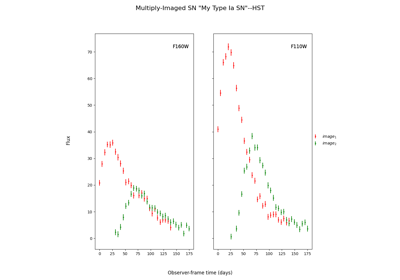
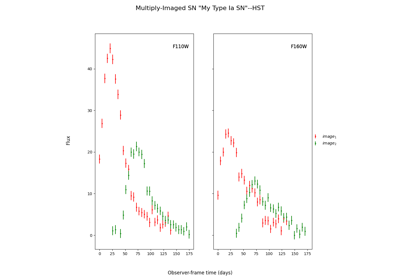
docs

diff --git a/docs/source/examples/plot_c_fitting.rst b/docs/source/examples/plot_c_fitting.rst
@@ -77,13 +77,13 @@ You can batch process (with sbatch or multiprocessing) using any or all of these
     *
 
       .. image:: /examples/images/sphx_glr_plot_c_fitting_002.png
-          :alt: t0 = ${40.94}_{-0.01}^{+0.01}$, x0 = ${0.00}_{-0.00}^{+0.00}$, x1 = ${-2.47}_{-0.01}^{+0.00}$, c = ${-0.49}_{-0.01}^{+0.01}$
+          :alt: t0 = ${35.46}_{-0.01}^{+0.01}$, x0 = ${0.00}_{-0.00}^{+0.00}$, x1 = ${-2.52}_{-0.00}^{+0.00}$, c = ${-0.50}_{-0.00}^{+0.00}$
           :class: sphx-glr-multi-img
 
     *
 
       .. image:: /examples/images/sphx_glr_plot_c_fitting_003.png
-          :alt: t0 = ${74.24}_{-0.91}^{+0.87}$, x0 = ${0.00}_{-0.00}^{+0.00}$, x1 = ${-3.01}_{-0.46}^{+0.33}$, c = ${-0.53}_{-0.05}^{+0.05}$
+          :alt: t0 = ${72.31}_{-0.23}^{+0.24}$, x0 = ${0.00}_{-0.00}^{+0.00}$, x1 = ${-2.95}_{-0.14}^{+0.14}$, c = ${-0.54}_{-0.01}^{+0.01}$
           :class: sphx-glr-multi-img
 
 
@@ -93,10 +93,14 @@ You can batch process (with sbatch or multiprocessing) using any or all of these
 
  .. code-block:: none
 
-    {'image_1': 0, 'image_2': 33.30441501344263}
-    {'image_1': array([0, 0]), 'image_2': array([-0.88601444,  0.87284192])}
-    {'image_1': 1, 'image_2': 0.7181287746558946}
-    {'image_1': array([0, 0]), 'image_2': array([-0.03499346,  0.04092652])}
+    {'image_1': 0, 'image_2': 36.84549760670118}
+    {'image_1': array([0, 0]), 'image_2': array([-0.22700236,  0.23468696])}
+    {'image_1': 1, 'image_2': 0.49847559771861877}
+    {'image_1': array([0, 0]), 'image_2': array([-0.00487031,  0.00515703])}
+    WARNING:root:Too few points to create valid contours
+    WARNING:root:Too few points to create valid contours
+    WARNING:root:Too few points to create valid contours
+    WARNING:root:Too few points to create valid contours
     WARNING:root:Too few points to create valid contours
     WARNING:root:Too few points to create valid contours
 
@@ -147,7 +151,7 @@ Other methods are called in a similar fashion, with a couple of extra arguments:
     *
 
       .. image:: /examples/images/sphx_glr_plot_c_fitting_005.png
-          :alt: x0 = ${0.00}_{-0.00}^{+0.00}$, t0 = ${30.85}_{-0.24}^{+0.24}$, x1 = ${2.62}_{-0.03}^{+0.02}$, c = ${-0.35}_{-0.01}^{+0.01}$, dt_2 = ${53.90}_{-0.11}^{+0.04}$, mu_2 = ${0.78}_{-0.02}^{+0.02}$
+          :alt: x0 = ${0.00}_{-0.00}^{+0.00}$, t0 = ${26.60}_{-0.01}^{+0.01}$, x1 = ${1.52}_{-0.02}^{+0.04}$, c = ${-0.34}_{-0.01}^{+0.01}$, dt_2 = ${51.42}_{-0.03}^{+0.22}$, mu_2 = ${0.51}_{-0.00}^{+0.00}$
           :class: sphx-glr-multi-img
 
 
@@ -157,10 +161,13 @@ Other methods are called in a similar fashion, with a couple of extra arguments:
 
  .. code-block:: none
 
-    {'image_1': 0, 'image_2': 53.89831832434927}
-    {'image_1': array([0, 0]), 'image_2': array([-0.10872904,  0.04138502])}
-    {'image_1': 1, 'image_2': 0.7803583875080096}
-    {'image_1': array([0, 0]), 'image_2': array([-0.01821259,  0.02136115])}
+    {'image_1': 0, 'image_2': 51.41797858413026}
+    {'image_1': array([0, 0]), 'image_2': array([-0.02534613,  0.21539693])}
+    {'image_1': 1, 'image_2': 0.5072303926853948}
+    {'image_1': array([0, 0]), 'image_2': array([-0.00273297,  0.00262995])}
+    WARNING:root:Too few points to create valid contours
+    WARNING:root:Too few points to create valid contours
+    WARNING:root:Too few points to create valid contours
     WARNING:root:Too few points to create valid contours
     WARNING:root:Too few points to create valid contours
     WARNING:root:Too few points to create valid contours
@@ -208,7 +215,7 @@ argument.
     *
 
       .. image:: /examples/images/sphx_glr_plot_c_fitting_007.png
-          :alt: t0 = ${28.10}_{-0.83}^{+0.78}$, c = ${-0.48}_{-0.01}^{+0.01}$, dt_2 = ${49.29}_{-4.42}^{+2.24}$
+          :alt: t0 = ${27.55}_{-0.32}^{+0.39}$, c = ${-0.47}_{-0.01}^{+0.01}$, dt_2 = ${53.90}_{-1.22}^{+1.13}$
           :class: sphx-glr-multi-img
 
 
@@ -218,8 +225,8 @@ argument.
 
  .. code-block:: none
 
-    {'image_1': 0, 'image_2': 49.28898602297453}
-    {'image_1': array([0, 0]), 'image_2': array([-4.42259225,  2.24529219])}
+    {'image_1': 0, 'image_2': 53.901169911988404}
+    {'image_1': array([0, 0]), 'image_2': array([-1.21960779,  1.13149098])}
 
     <Figure size 760x760 with 9 Axes>
 
@@ -261,10 +268,10 @@ You can include your fit from the parallel method as a prior on light curve and 
 
  .. code-block:: none
 
-    {'image_1': 0, 'image_2': 33.25109760314137}
-    {'image_1': array([0, 0]), 'image_2': array([-0.90057526,  0.81692132])}
-    {'image_1': 0, 'image_2': 35.90635471692211}
-    {'image_1': array([0, 0]), 'image_2': array([-0.06072463,  0.03403777])}
+    {'image_1': 0, 'image_2': 36.84647091693532}
+    {'image_1': array([0, 0]), 'image_2': array([-0.22145359,  0.2358786 ])}
+    {'image_1': 0, 'image_2': 37.491591686964945}
+    {'image_1': array([0, 0]), 'image_2': array([-0.02158565,  0.01366344])}
 
 
 
@@ -302,7 +309,7 @@ extreme dust in the source and lens frames (your final simulations may look slig
 
  .. code-block:: none
 
-    lensebv: 0.48387096774193544 hostebv: 0.3225806451612903 c: -0.15446105890399453
+    lensebv: 0.48387096774193544 hostebv: 0.3225806451612903 c: 0.1517545384563399
 
 
 
@@ -340,9 +347,9 @@ Okay, now we can fit the MISN first without taking these effects into account:
 
  .. code-block:: none
 
-    {'image_1': 0, 'image_2': 50.34798856048176}
-    {'image_1': array([0, 0]), 'image_2': array([-1.20396072,  1.34554044])}
-    c: 0.5345555413024323
+    {'image_1': 0, 'image_2': 50.38532822427862}
+    {'image_1': array([0, 0]), 'image_2': array([-1.00455451,  1.01433299])}
+    c: 0.9169541422136009
 
     <Figure size 1000x1000 with 2 Axes>
 
@@ -387,9 +394,9 @@ as it attempts to compensate for extinction without a propagation effect. Now le
 
  .. code-block:: none
 
-    {'image_1': 0, 'image_2': 50.35744562205852}
-    {'image_1': array([0, 0]), 'image_2': array([-1.34647757,  1.28347513])}
-    c: 0.294958430085742 lensebv: 0.6888373861510075 hostebv: -0.28156692646799264
+    {'image_1': 0, 'image_2': 50.455205707101534}
+    {'image_1': array([0, 0]), 'image_2': array([-1.04093443,  1.02128521])}
+    c: 0.2960428896920041 lensebv: 0.8752419931029314 hostebv: -0.04584333112184245
 
     <Figure size 1000x1000 with 2 Axes>
 
@@ -403,7 +410,7 @@ more accurate.
 
 .. rst-class:: sphx-glr-timing
 
-   **Total running time of the script:** ( 4 minutes  39.020 seconds)
+   **Total running time of the script:** ( 17 minutes  56.997 seconds)
 
 
 .. _sphx_glr_download_examples_plot_c_fitting.py:

diff --git a/docs/source/examples/plot_b_sim.rst b/docs/source/examples/plot_b_sim.rst
@@ -73,16 +73,16 @@ supernova. The function being used in these examples is
 
     ------------------
     Image: image_1:
-    Bands: ['F160W', 'F110W']
+    Bands: ['F110W', 'F160W']
     Date Range: 0.00000->138.97059
-    Number of points: 56
+    Number of points: 55
 
     Metadata:
        z:1.4
        t0:20.0
-       x0:9.35013296712326e-06
-       x1:-0.08063825065342595
-       c:0.040133943572491386
+       x0:5.695695190248835e-06
+       x1:-2.6772106472991033
+       c:0.08149836255540946
        sourcez:1.4
        hostebv:0
        lensebv:0
@@ -91,16 +91,16 @@ supernova. The function being used in these examples is
        td:20.0
     ------------------
     Image: image_2:
-    Bands: ['F160W', 'F110W']
+    Bands: ['F110W', 'F160W']
     Date Range: 25.73529->175.00000
-    Number of points: 58
+    Number of points: 56
 
     Metadata:
        z:1.4
        t0:70.0
-       x0:4.67506648356163e-06
-       x1:-0.08063825065342595
-       c:0.040133943572491386
+       x0:2.8478475951244173e-06
+       x1:-2.6772106472991033
+       c:0.08149836255540946
        sourcez:1.4
        hostebv:0
        lensebv:0
@@ -163,9 +163,9 @@ in any way you want.
     Metadata:
        z:1.33
        t0:10.0
-       x0:8.398489726534092e-06
-       x1:0.517777157042711
-       c:-0.01477557062401233
+       x0:1.6395900043763892e-05
+       x1:0.663544782477016
+       c:-0.06970056572056446
        sourcez:1.33
        hostebv:0.0967741935483871
        lensebv:0
@@ -176,14 +176,14 @@ in any way you want.
     Image: image_2:
     Bands: ['F110W', 'F125W']
     Date Range: 25.73529->175.00000
-    Number of points: 58
+    Number of points: 59
 
     Metadata:
        z:1.33
        t0:70.0
-       x0:4.199244863267046e-06
-       x1:0.517777157042711
-       c:-0.01477557062401233
+       x0:8.197950021881946e-06
+       x1:0.663544782477016
+       c:-0.06970056572056446
        sourcez:1.33
        hostebv:0.0967741935483871
        lensebv:0
@@ -239,17 +239,17 @@ in any way you want.
     Image: image_1:
     Bands: ['F110W', 'F125W']
     Date Range: 0.00000->123.52941
-    Number of points: 49
+    Number of points: 50
 
     Metadata:
        z:1.33
        t0:10.0
-       x0:6.529148253390251e-06
-       x1:1.3843505705627641
-       c:0.123379380824847
+       x0:1.3373838535688731e-05
+       x1:0.3814945380263072
+       c:-0.058295935495764506
        sourcez:1.33
-       hostebv:0.1946929519175724
-       lensebv:0.3014782768346338
+       hostebv:0.20343713762863458
+       lensebv:0.2966161012913718
        lensz:0.53
        mu:7
        td:10.0
@@ -257,17 +257,17 @@ in any way you want.
     Image: image_2:
     Bands: ['F110W', 'F125W']
     Date Range: 25.73529->175.00000
-    Number of points: 55
+    Number of points: 58
 
     Metadata:
        z:1.33
        t0:70.0
-       x0:3.2645741266951256e-06
-       x1:1.3843505705627641
-       c:0.123379380824847
+       x0:6.686919267844366e-06
+       x1:0.3814945380263072
+       c:-0.058295935495764506
        sourcez:1.33
-       hostebv:0.1946929519175724
-       lensebv:0.3014782768346338
+       hostebv:0.20343713762863458
+       lensebv:0.2966161012913718
        lensz:0.53
        mu:3.5
        td:70.0
@@ -280,7 +280,7 @@ in any way you want.
 
 .. rst-class:: sphx-glr-timing
 
-   **Total running time of the script:** ( 0 minutes  2.077 seconds)
+   **Total running time of the script:** ( 0 minutes  0.657 seconds)
 
 
 .. _sphx_glr_download_examples_plot_b_sim.py:

diff --git a/docs/source/examples/sg_execution_times.rst b/docs/source/examples/sg_execution_times.rst
@@ -5,14 +5,14 @@
 
 Computation times
 =================
-**04:56.750** total execution time for **examples** files:
+**18:31.767** total execution time for **examples** files:
 
 +--------------------------------------------------------------------+-----------+--------+
-| :ref:`sphx_glr_examples_plot_c_fitting.py` (``plot_c_fitting.py``) | 04:39.020 | 0.0 MB |
+| :ref:`sphx_glr_examples_plot_c_fitting.py` (``plot_c_fitting.py``) | 17:56.997 | 0.0 MB |
 +--------------------------------------------------------------------+-----------+--------+
-| :ref:`sphx_glr_examples_plot_d_survey.py` (``plot_d_survey.py``)   | 00:15.654 | 0.0 MB |
+| :ref:`sphx_glr_examples_plot_a_micro.py` (``plot_a_micro.py``)     | 00:18.377 | 0.0 MB |
 +--------------------------------------------------------------------+-----------+--------+
-| :ref:`sphx_glr_examples_plot_b_sim.py` (``plot_b_sim.py``)         | 00:02.077 | 0.0 MB |
+| :ref:`sphx_glr_examples_plot_d_survey.py` (``plot_d_survey.py``)   | 00:15.736 | 0.0 MB |
 +--------------------------------------------------------------------+-----------+--------+
-| :ref:`sphx_glr_examples_plot_a_micro.py` (``plot_a_micro.py``)     | 00:00.000 | 0.0 MB |
+| :ref:`sphx_glr_examples_plot_b_sim.py` (``plot_b_sim.py``)         | 00:00.657 | 0.0 MB |
 +--------------------------------------------------------------------+-----------+--------+

diff --git a/docs/source/examples/plot_a_micro.rst b/docs/source/examples/plot_a_micro.rst
@@ -57,8 +57,8 @@ This notebook gives examples on creating microlensing for simulations
 
  .. code-block:: none
 
-    /Users/jpierel/miniconda3/envs/basic/lib/python3.8/site-packages/sntd-2.3.5-py3.8.egg/sntd/ml.py:239: MatplotlibDeprecationWarning: Passing parameters norm and vmin/vmax simultaneously is deprecated since 3.3 and will become an error two minor releases later. Please pass vmin/vmax directly to the norm when creating it.
-      ax.imshow(-2.5*np.log10(image), aspect='equal', interpolation='nearest', cmap=cm.bwr,
+    /Users/jpierel/miniconda3/envs/py37/lib/python3.7/site-packages/sntd/ml.py:241: MatplotlibDeprecationWarning: Passing parameters norm and vmin/vmax simultaneously is deprecated since 3.3 and will become an error two minor releases later. Please pass vmin/vmax directly to the norm when creating it.
+      vmin=-2, vmax=2, origin='lower')
 
 
 
@@ -102,7 +102,7 @@ examples.
 
 .. rst-class:: sphx-glr-timing
 
-   **Total running time of the script:** ( 0 minutes  19.047 seconds)
+   **Total running time of the script:** ( 0 minutes  18.377 seconds)
 
 
 .. _sphx_glr_download_examples_plot_a_micro.py:

diff --git a/docs/source/examples/plot_d_survey.rst b/docs/source/examples/plot_d_survey.rst
@@ -189,7 +189,7 @@ Add a prior that assumes perfect knowledge of all other parameters
 
 .. rst-class:: sphx-glr-timing
 
-   **Total running time of the script:** ( 0 minutes  15.654 seconds)
+   **Total running time of the script:** ( 0 minutes  15.736 seconds)
 
 
 .. _sphx_glr_download_examples_plot_d_survey.py:
